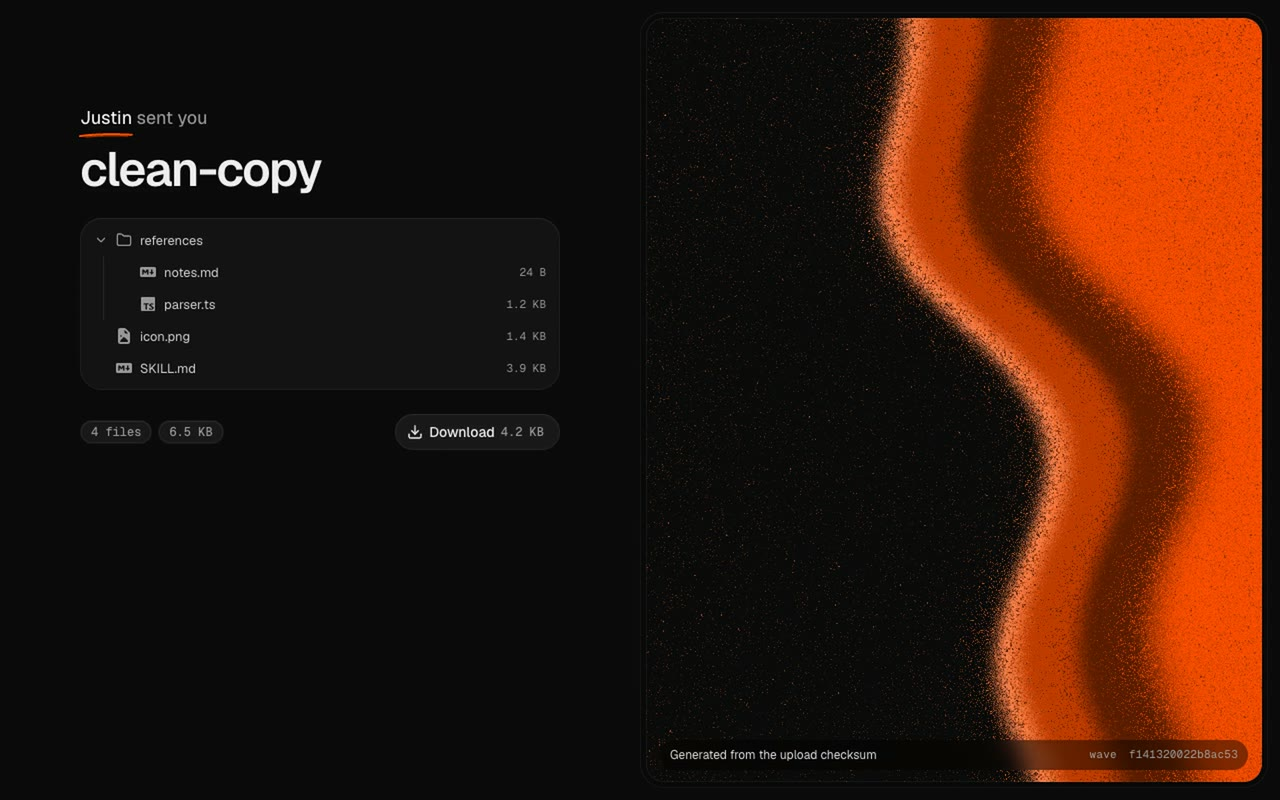
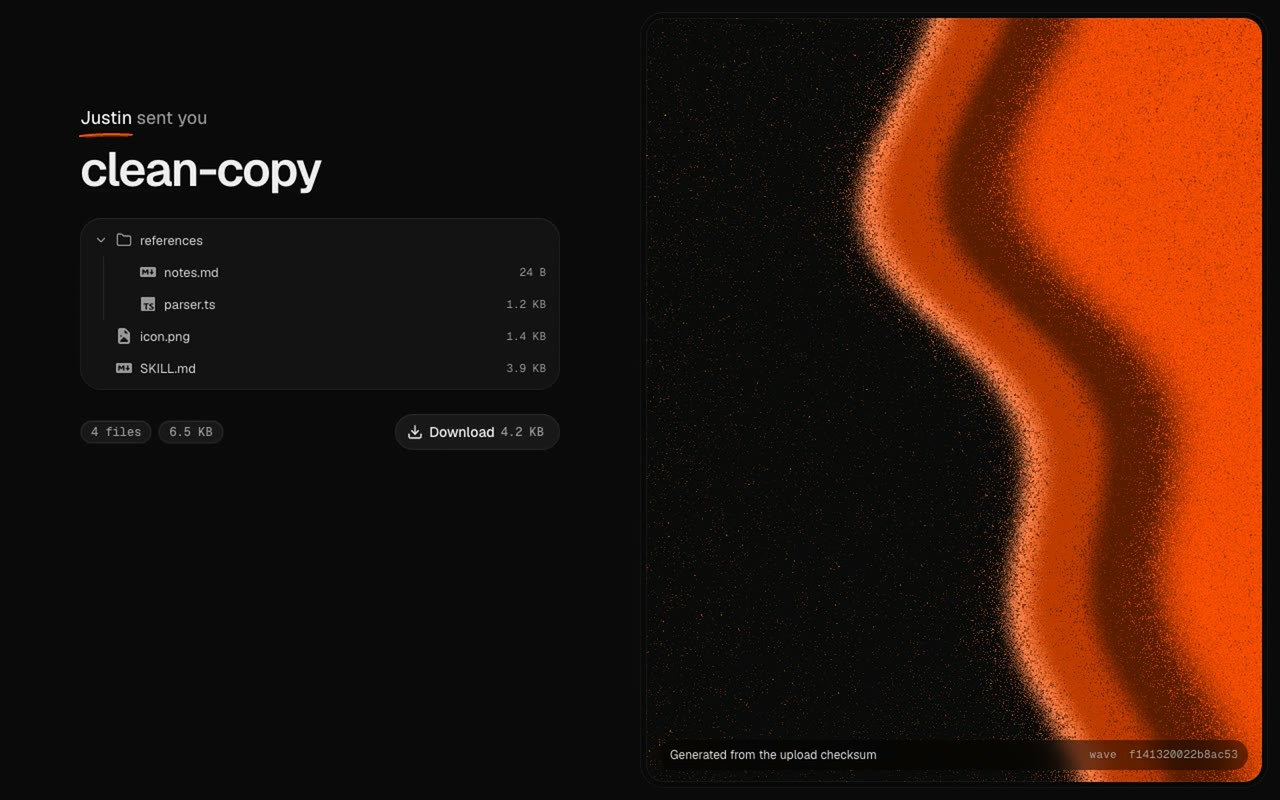
feat: publish to npm from a version tag; docs homepage OG card
publish.yml publishes with provenance when a v* tag is pushed. Setup no longer imports TypeScript, so npx jalco-drop init works from an installed package. The docs homepage gets a hand-made card with the share page, and its video poster now shows the painted gradient.

Changed region(s): [[0.6562, 0.0, 1.0, 1.0], [0.8125, 0.0, 0.8438, 0.0625]]

diff --git a/docs-site/og/home.html b/docs-site/og/home.html
@@ -1,0 +1,29 @@
+<!doctype html>
+<html>
+<head>
+<meta charset="utf-8">
+<style>
+@font-face { font-family: Geist; src: url("../../public/fonts/Geist-Variable.woff2") format("woff2"); font-weight: 100 900; }
+* { box-sizing: border-box; margin: 0; }
+html, body { width: 1200px; height: 630px; overflow: hidden; }
+body { position: relative; background: oklch(0.145 0 0); color: oklch(0.95 0 0); font-family: Geist, sans-serif; -webkit-font-smoothing: antialiased; }
+.copy { position: absolute; left: 72px; top: 72px; bottom: 72px; width: 470px; display: flex; flex-direction: column; }
+.brand { display: flex; align-items: center; gap: 14px; font-size: 26px; font-weight: 500; }
+.brand svg { height: 36px; width: auto; }
+h1 { margin-top: auto; font-size: 54px; line-height: 1.04; font-weight: 600; letter-spacing: -0.035em; text-wrap: balance; }
+p { margin-top: 20px; font-size: 23px; line-height: 1.4; color: oklch(0.68 0 0); text-wrap: pretty; }
+.host { margin-top: auto; padding-top: 28px; font-size: 19px; color: oklch(0.6 0 0); }
+.shot { position: absolute; left: 556px; top: 104px; width: 680px; border-radius: 18px; overflow: hidden; box-shadow: inset 0 0 0 1px oklch(1 0 0 / 8%), 0 0 0 1px oklch(1 0 0 / 7%), 0 40px 80px -20px oklch(0 0 0 / 70%); }
+.shot img { display: block; width: 100%; }
+</style>
+</head>
+<body>
+<div class="copy">
+  <div class="brand"><svg xmlns="http://www.w3.org/2000/svg" viewBox="51.6 50.3 675.3 780.4"><path fill="#ff4f00" d="M466.414 252.3L466.414 643L593.564 643C603.183 643 607.191 653.6 600.778 661.6L461.004 830.7C538.656 813.9 606.89 765.3 654.985 704.4C701.877 645.1 729.331 570.4 726.726 495.7C724.722 422.2 698.17 363.5 650.676 307.3C613.303 263 567.613 226.1 523.827 187.3C475.633 144.7 431.546 99.1 390.465 50.3C355.196 91.1 321.931 129.7 281.351 167.1C235.561 209.4 185.162 246.2 143.079 292.1C88.773 351.4 56.108 414.8 52.101 485.9C47.692 558.6 73.543 631.8 115.625 689.6C164.121 756.3 235.16 812.2 320.628 830.7L180.653 662.1C174.04 654.2 177.848 643 187.567 643L314.917 643L314.917 252.3C314.917 245.9 319.225 241.3 325.638 241.3L455.293 241.3C461.906 241.3 466.414 245.9 466.414 252.3Z"/></svg><span>jalco-drop</span></div>
+  <h1>A self-hosted file transfer interface</h1>
+  <p>For people and agents. Your domain, your storage, links that open properly.</p>
+  <div class="host">drop.justinlevine.me</div>
+</div>
+<div class="shot"><img src="share-frame.jpg"></div>
+</body>
+</html>

diff --git a/src/config.ts b/src/config.ts
@@ -1,21 +1,6 @@
-export const CODE_THEMES = [
-  "pierre-dark",
-  "github-dark",
-  "github-dark-dimmed",
-  "vesper",
-  "vitesse-dark",
-  "tokyo-night",
-  "catppuccin-mocha",
-  "rose-pine",
-  "nord",
-  "one-dark-pro",
-  "dracula",
-  "night-owl",
-  "poimandres",
-  "houston",
-  "ayu-dark",
-  "min-dark",
-] as const;
+import { CODE_THEMES, DEFAULTS as BASE_DEFAULTS } from "./defaults.mjs";
+
+export { CODE_THEMES };
 
 export type CodeTheme = (typeof CODE_THEMES)[number];
 
@@ -27,7 +12,7 @@ export type SiteConfig = {
   homeUrl: string;
 };
 
-export const DEFAULTS: SiteConfig = { name: "jalco-drop", owner: "Someone", accent: "#ff4f00", codeTheme: "pierre-dark", homeUrl: "https://www.google.com/" };
+export const DEFAULTS: SiteConfig = BASE_DEFAULTS;
 
 const HEX_COLOR = /^#[0-9a-f]{6}$/i;
 const isCodeTheme = (value: string): value is CodeTheme => CODE_THEMES.some((theme) => theme === value);

diff --git a/CHANGELOG.md b/CHANGELOG.md
@@ -4,20 +4,6 @@ All notable changes to jalco-drop. Versions follow [semantic versioning](https:/
 
 ## Unreleased
 
-- **Breaking:** `wrangler.jsonc` is now a committed template that deploys to `workers.dev`, and your settings live in a gitignored `wrangler.local.jsonc`. `npm run dev` and `npm run deploy` prefer it. To upgrade, rename your `wrangler.jsonc` to `wrangler.local.jsonc`.
-- Deploy to Cloudflare and Deploy to Render buttons.
-- Any drop link answers `?format=json` with its files, raw URLs, or a recording's transcript and moments. Pages advertise it with `rel="alternate"`, and locked drops take an `X-Drop-Password` header.
-- `jalco-drop -j` prints an upload as JSON.
-- Two agent skills, installable with `npx skills add jal-co/jalco-drop`: `jalco-drop` (send and read) and `jalco-drop-setup` (deploy, sign in, mint tokens).
-- `jalco-drop login` and `jalco-drop whoami`, with the login saved to `~/.config/jalco-drop/config`. Every site serves the CLI at `/cli`.
-- `GET /api/token` describes the calling token; `POST /api/tokens` creates a named token with the admin token.
-- Formats live in `src/formats/`: text formats render one file, bundle formats turn a folder into its own page. Superwhisper recordings open as a transcript that seeks the audio, with speakers.
-- Docs tables, code blocks and page links match the app.
-- Fixed: under reduced motion, the closed pie menu stayed on screen and blocked clicks.
-- Playwright end-to-end tests for every flow, on Cloudflare and Node, run in CI and before each release, plus a live check after deploy.
-- Docs match the app's type scale and colours.
-- `RATE_LIMIT=off` disables the per-IP limit (used by the test servers).
-
 ## 1.0.0 (2026-11-09)
 
 The first release.
@@ -29,3 +15,11 @@ The first release.
 - Settings in `/admin` for the site name, sender, accent colour, code theme and home redirect, applied without a redeploy.
 - Runs on Cloudflare (Worker, R2, Browser Rendering) or anywhere with Docker (disk or S3-compatible storage, Chromium for cards).
 - `npx jalco-drop init` sets up either target, interactively or with flags.
+- Deploy to Cloudflare and Deploy to Render buttons.
+- Any drop link answers `?format=json` with its files, raw URLs, or a recording's transcript and moments. Pages advertise it with `rel="alternate"`, and locked drops take an `X-Drop-Password` header.
+- `jalco-drop -j` prints an upload as JSON.
+- Two agent skills, installable with `npx skills add jal-co/jalco-drop`: `jalco-drop` (send and read) and `jalco-drop-setup` (deploy, sign in, mint tokens).
+- `jalco-drop login` and `jalco-drop whoami`, with the login saved to `~/.config/jalco-drop/config`. Every site serves the CLI at `/cli`.
+- `GET /api/token` describes the calling token; `POST /api/tokens` creates a named token with the admin token.
+- Formats live in `src/formats/`: text formats render one file, bundle formats turn a folder into its own page. Superwhisper recordings open as a transcript that seeks the audio, with speakers.
+- Playwright end-to-end tests for every flow, on Cloudflare and Node, run in CI and before each release, plus a live check after deploy.

diff --git a/README.md b/README.md
@@ -124,7 +124,7 @@ Versions follow semver; the running version shows in the `/admin` footer. Add no
 npm run release -- minor   # or patch, major, 1.2.0; --dry-run to preview
 ```
 
-It moves the notes under the new version, bumps `package.json`, freezes the previous docs as an archived Blume version on a minor or major bump (with the version switcher, an "old version" notice and canonical links to the latest), runs the typecheck plus the smoke and end-to-end tests on Cloudflare and Node, commits, tags, pushes, creates the GitHub release, deploys the app and the docs, and checks both live sites serve the new version. Self-hosters upgrade with `npx jalco-drop upgrade`, or `git pull` in a clone.
+It moves the notes under the new version, bumps `package.json`, freezes the previous docs as an archived Blume version on a minor or major bump (with the version switcher, an "old version" notice and canonical links to the latest), runs the typecheck plus the smoke and end-to-end tests on Cloudflare and Node, commits, tags and pushes (the tag publishes to npm through `.github/workflows/publish.yml`), creates the GitHub release, deploys the app and the docs, and checks both live sites serve the new version. Self-hosters upgrade with `npx jalco-drop upgrade`, or `git pull` in a clone.
 
 ## Credits
 
